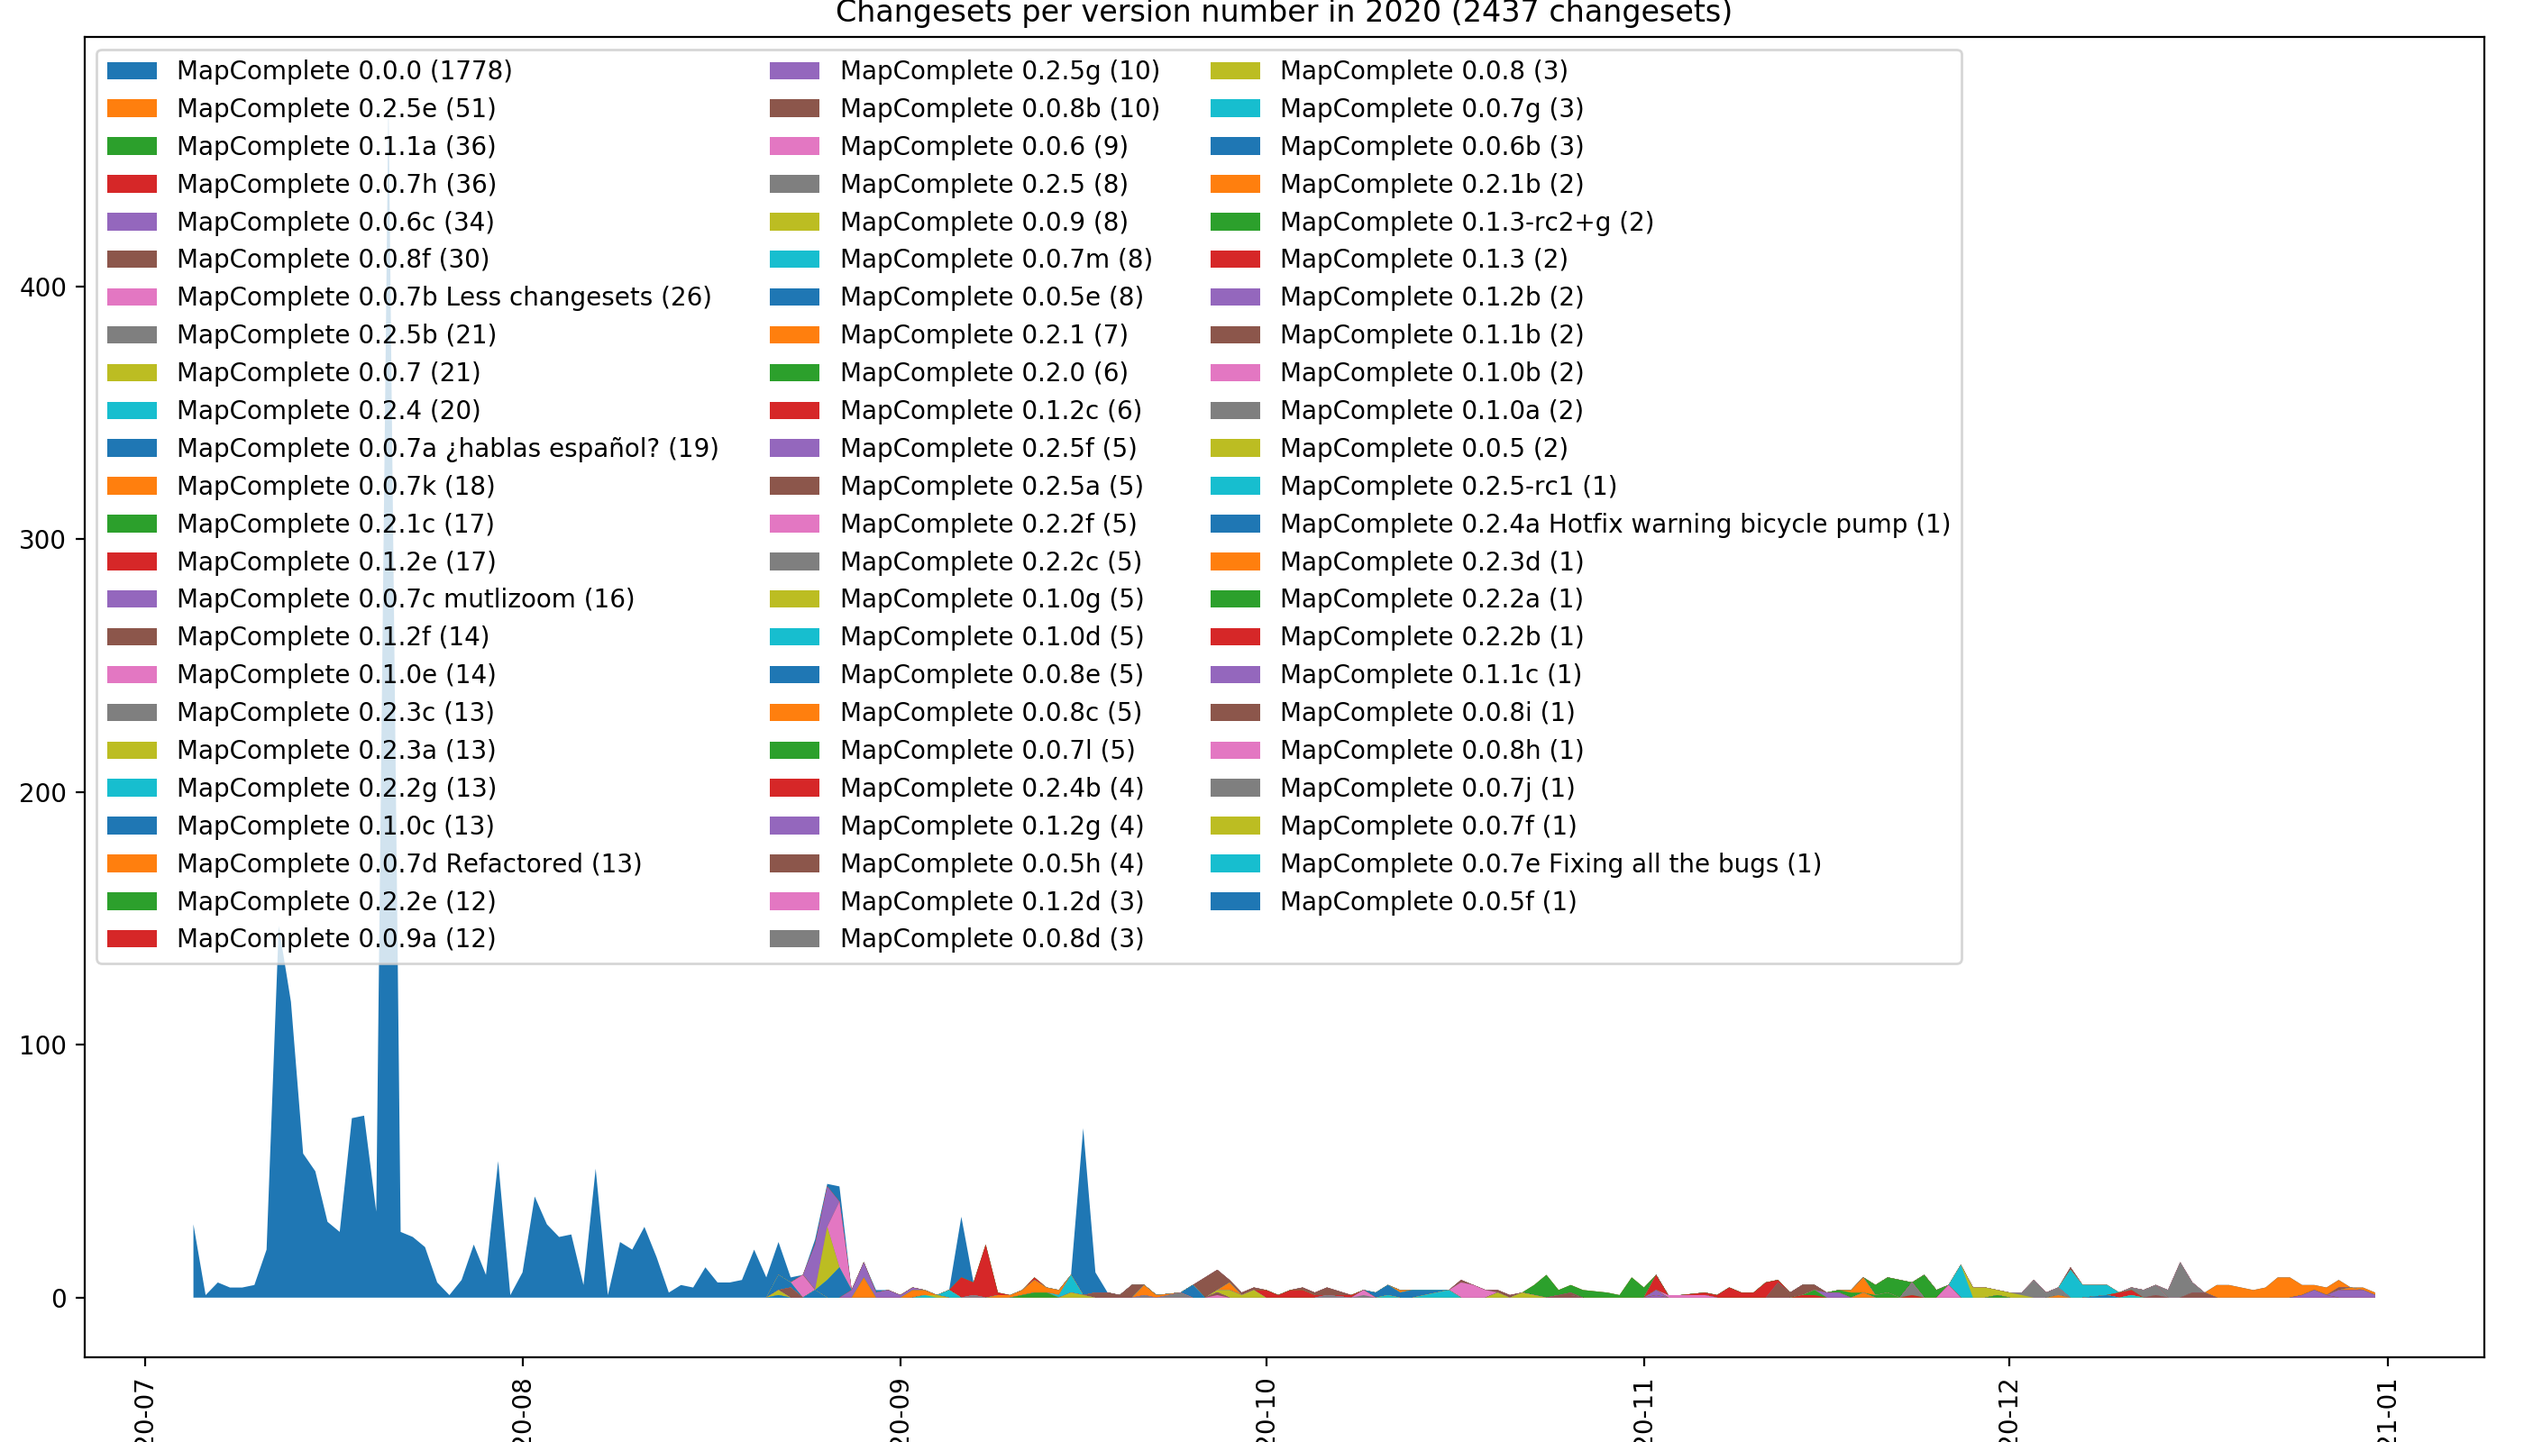
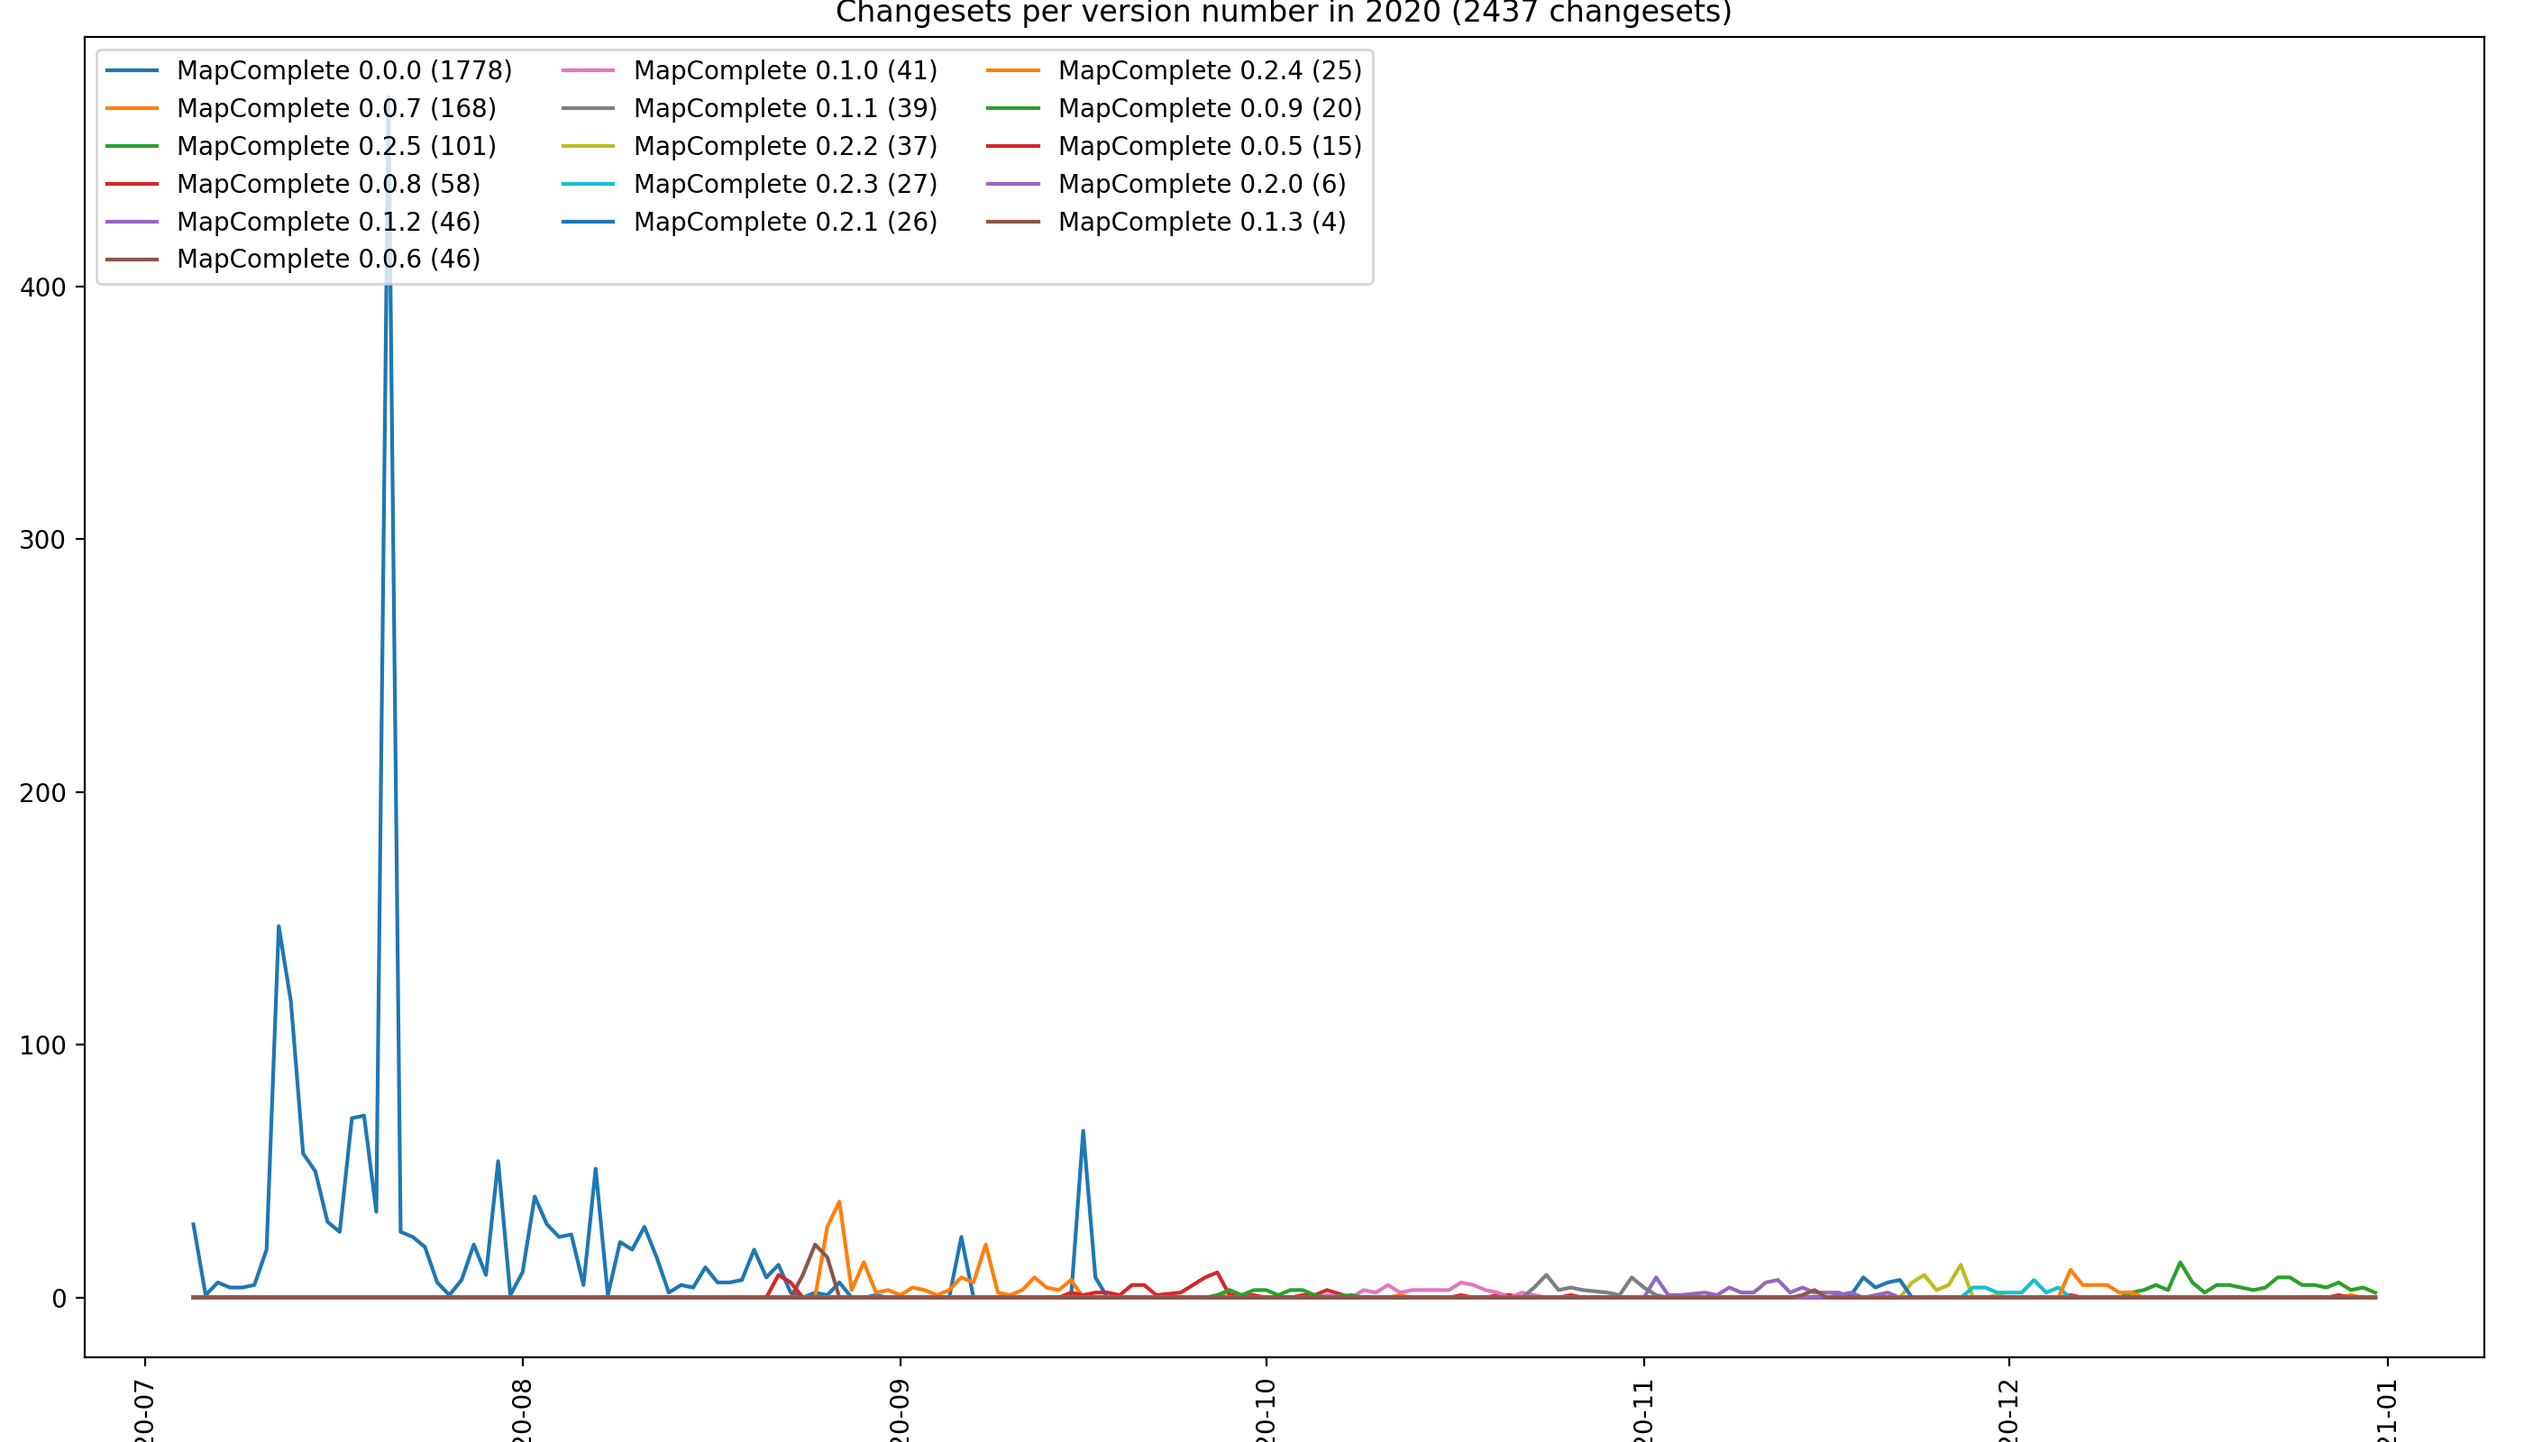
More fancy graphs

Changed region(s): [[0.0311, 0.0312, 0.9321, 0.9062]]

diff --git a/Docs/Tools/csvGrapher.py b/Docs/Tools/csvGrapher.py
@@ -196,7 +196,7 @@ def cumulative_changes_per(contents, index, subject, filenameextra="", cutoff=5,
         else:
             edits_per_day_cumul = themes.map(lambda themes_for_date: len([x for x in themes_for_date if theme == x]))
 
-        if running_totals is None:
+        if (not cumulative) or (running_totals is None):
             running_totals = edits_per_day_cumul
         else:
             running_totals = list(map(lambda ab: ab[0] + ab[1], zip(running_totals, edits_per_day_cumul)))
@@ -211,7 +211,7 @@ def cumulative_changes_per(contents, index, subject, filenameextra="", cutoff=5,
             else:
                 other_cumul = list(map(lambda ab: ab[0] + ab[1], zip(other_cumul, edits_per_day_cumul)))
 
-    keys = themes.keys()
+    keys = list(themes.keys())
     values_to_show.reverse()
     values_to_show.append(("other", other_cumul))
     totals = dict(per_theme_count)
@@ -225,7 +225,11 @@ def cumulative_changes_per(contents, index, subject, filenameextra="", cutoff=5,
         msg = kv[0] + " (" + str(totals[kv[0]]) + ")"
         if kv[0] == "other":
             msg = str(other_theme_count) + " small " + subject + "s (" + str(other_total) + " changes)"
-        pyplot.fill_between(keys, kv[1], label=msg)
+        if cumulative:
+            pyplot.fill_between(keys, kv[1], label=msg)
+        else:
+            print("Keys:"+str(keys)+" "+str(kv[1]))
+            pyplot.plot(keys, kv[1], label=msg)
 
     if cumulative:
         cumulative_txt = "Cumulative changesets"
@@ -246,6 +250,7 @@ def create_graphs(contents):
     create_usercount_graphs(contents)
     create_theme_breakdown(contents)
     cumulative_changes_per(contents, 3, "theme", cutoff=10)
+    cumulative_changes_per(contents, 3, "theme", cutoff=10, cumulative=False)
     cumulative_changes_per(contents, 1, "contributor", cutoff=15)
     cumulative_changes_per(contents, 2, "language", cutoff=1)
     cumulative_changes_per(contents, 4, "version number", cutoff=1)
@@ -258,9 +263,11 @@ def create_graphs(contents):
         create_usercount_graphs(contents_filtered, extratext)
         create_theme_breakdown(contents_filtered, extratext)
         cumulative_changes_per(contents_filtered, 3, "theme", extratext, cutoff=5)
+        cumulative_changes_per(contents_filtered, 3, "theme", extratext, cutoff=5, cumulative=False)
         cumulative_changes_per(contents_filtered, 1, "contributor", extratext, cutoff=10)
         cumulative_changes_per(contents_filtered, 2, "language", extratext, cutoff=1)
         cumulative_changes_per(contents_filtered, 4, "version number", extratext, cutoff=1, cumulative=False)
+        cumulative_changes_per(contents_filtered, 8, "host", extratext, cutoff=1)
 
 
 theme_remappings = {
@@ -290,6 +297,7 @@ def clean_input(contents):
         if theme in theme_remappings:
             theme = theme_remappings[theme]
         row[3] = theme
+        row[4] = row[4].strip().strip("\"")[0:len("MapComplete x.x.x")]
         yield [data.strip().strip("\"") for data in row]
 
 

diff --git a/Docs/Stats.md b/Docs/Stats.md
@@ -1,7 +1,7 @@
 Statistics
 ==========
 
-There are some fancy statistics available about MapComplete use. You can find all the stats (and the scripts to generate them) [](Tools/) 
+There are some fancy statistics available about MapComplete use. The most important once are listed below, some more graphs (and the scripts to generate them) are [in the tools directory](Tools/) 
 
 All Time usage
 --------------
